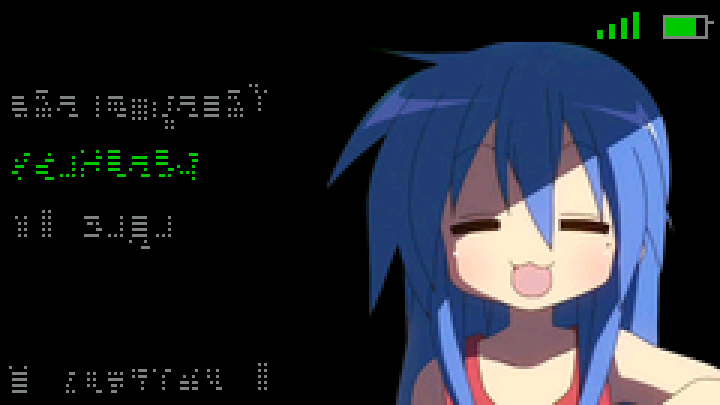
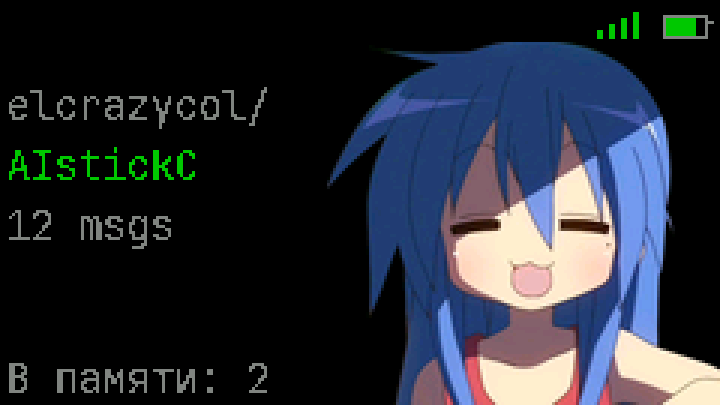
fix: эмулятор экрана — парсинг hex-байтов шрифта (текст был точками)

diff --git a/tools/mock_screen.py b/tools/mock_screen.py
@@ -46,8 +46,11 @@ ROOT = os.path.dirname(os.path.dirname(os.path.abspath(__file__)))
 class Font:
     def __init__(self, path):
         src = open(path).read()
-        self.bits = [int(x) for x in re.findall(
-            r"-?\d+", re.search(r"_Bitmaps\[\] = \{(.*?)\n\};", src, re.S).group(1))]
+        # Байты в заголовке записаны hex-литералами — парсим именно их,
+        # иначе "0x18" разбирается как 0 и 18 и глифы рассыпаются.
+        self.bits = [int(x, 16) for x in re.findall(
+            r"0x([0-9A-Fa-f]{2})",
+            re.search(r"_Bitmaps\[\] = \{(.*?)\n\};", src, re.S).group(1))]
         self.glyphs = []
         for line in re.search(r"_Glyphs\[\] = \{(.*?)\n\};", src, re.S).group(1).splitlines():
             n = [int(x) for x in re.findall(r"-?\d+", line)]
